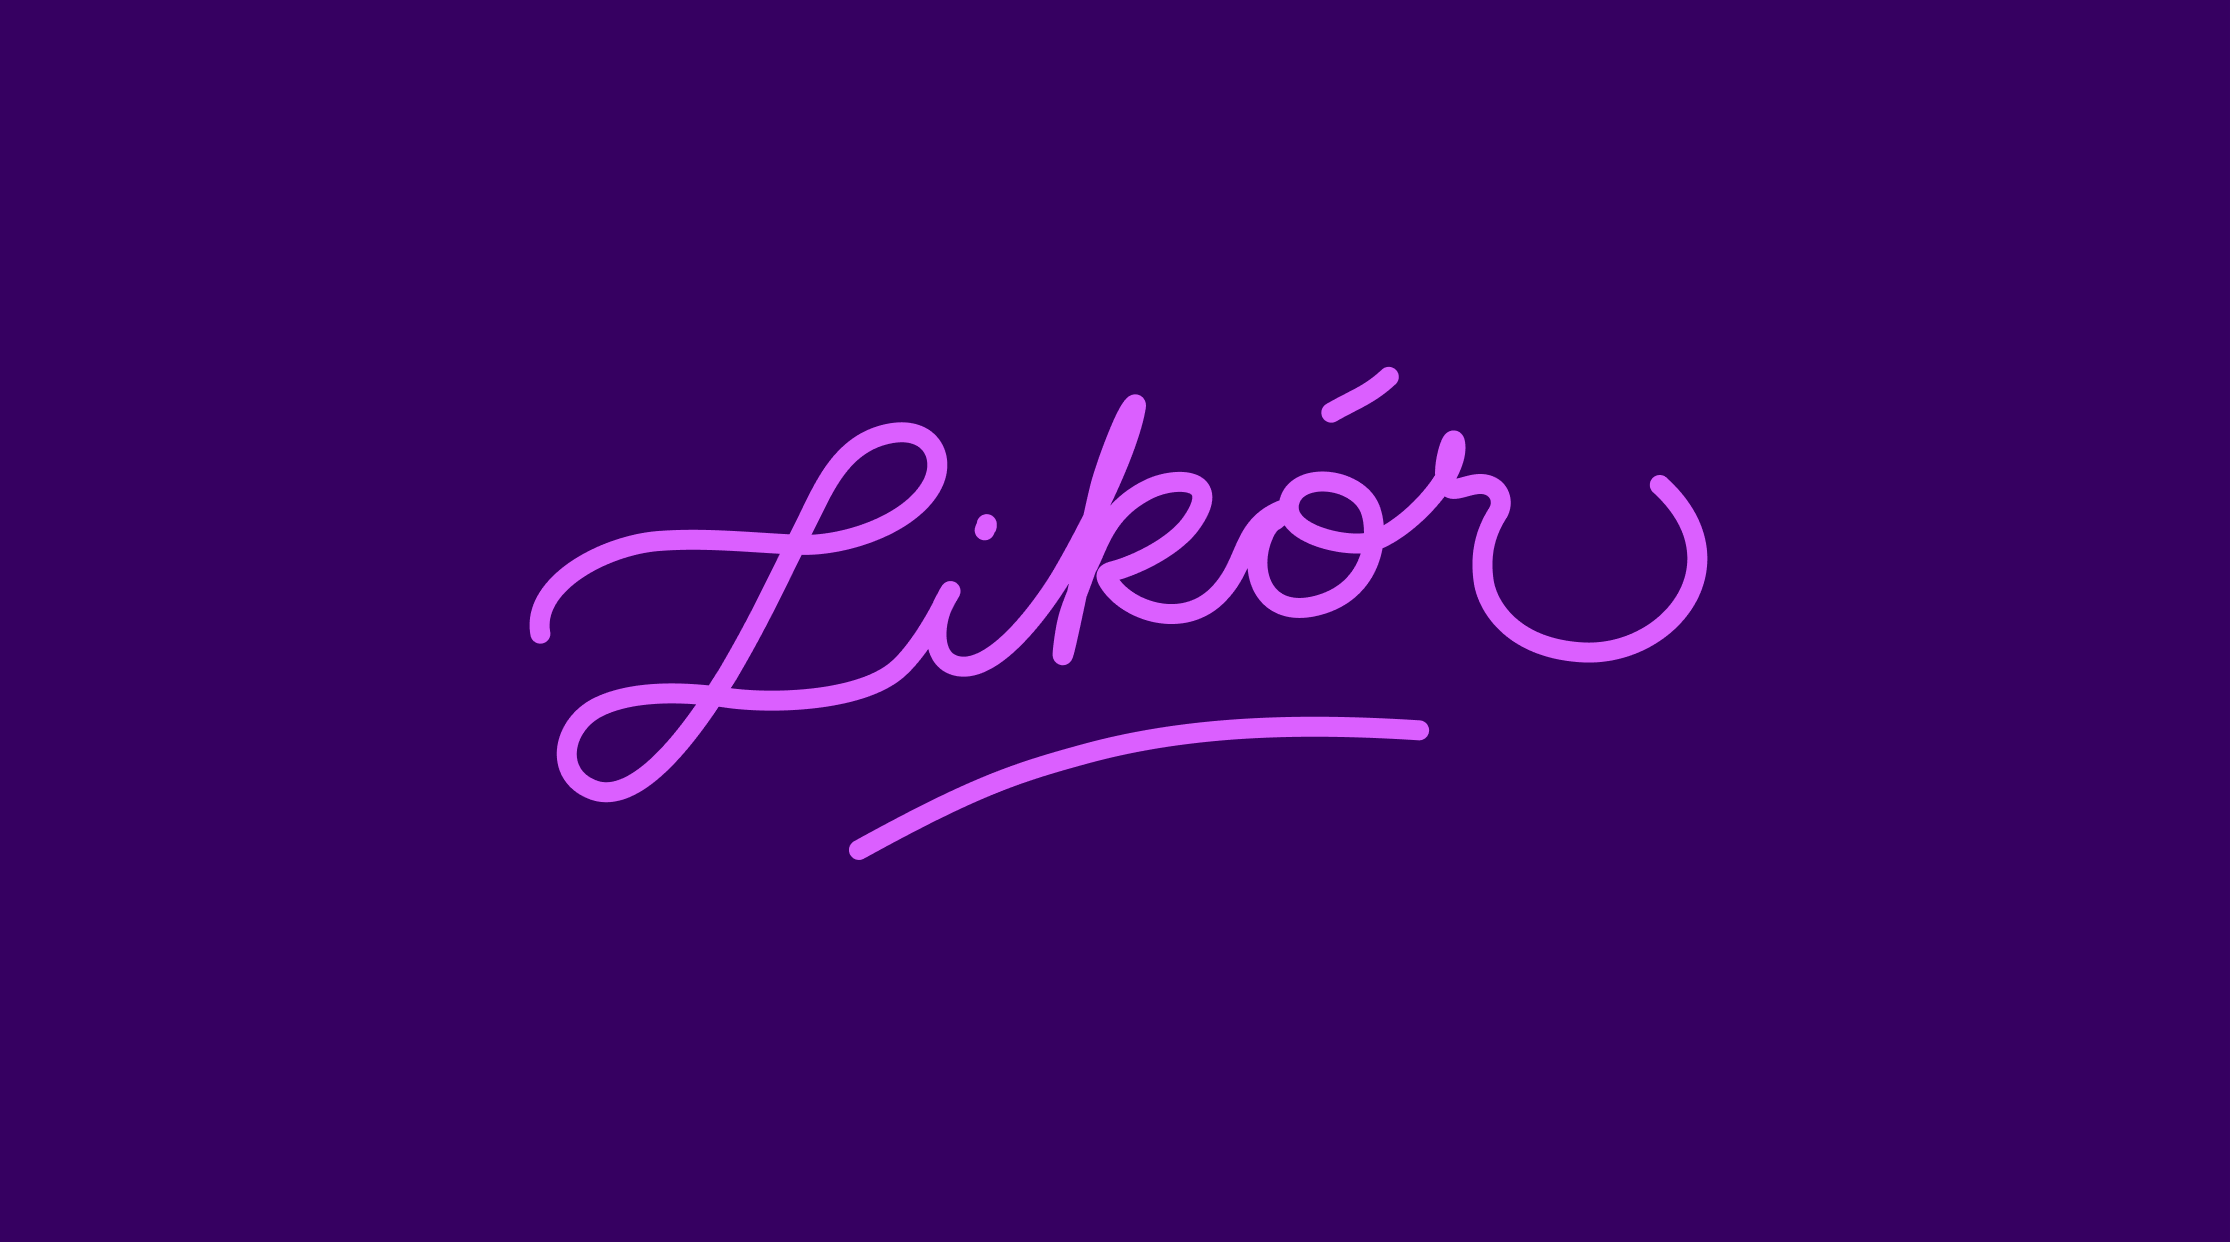
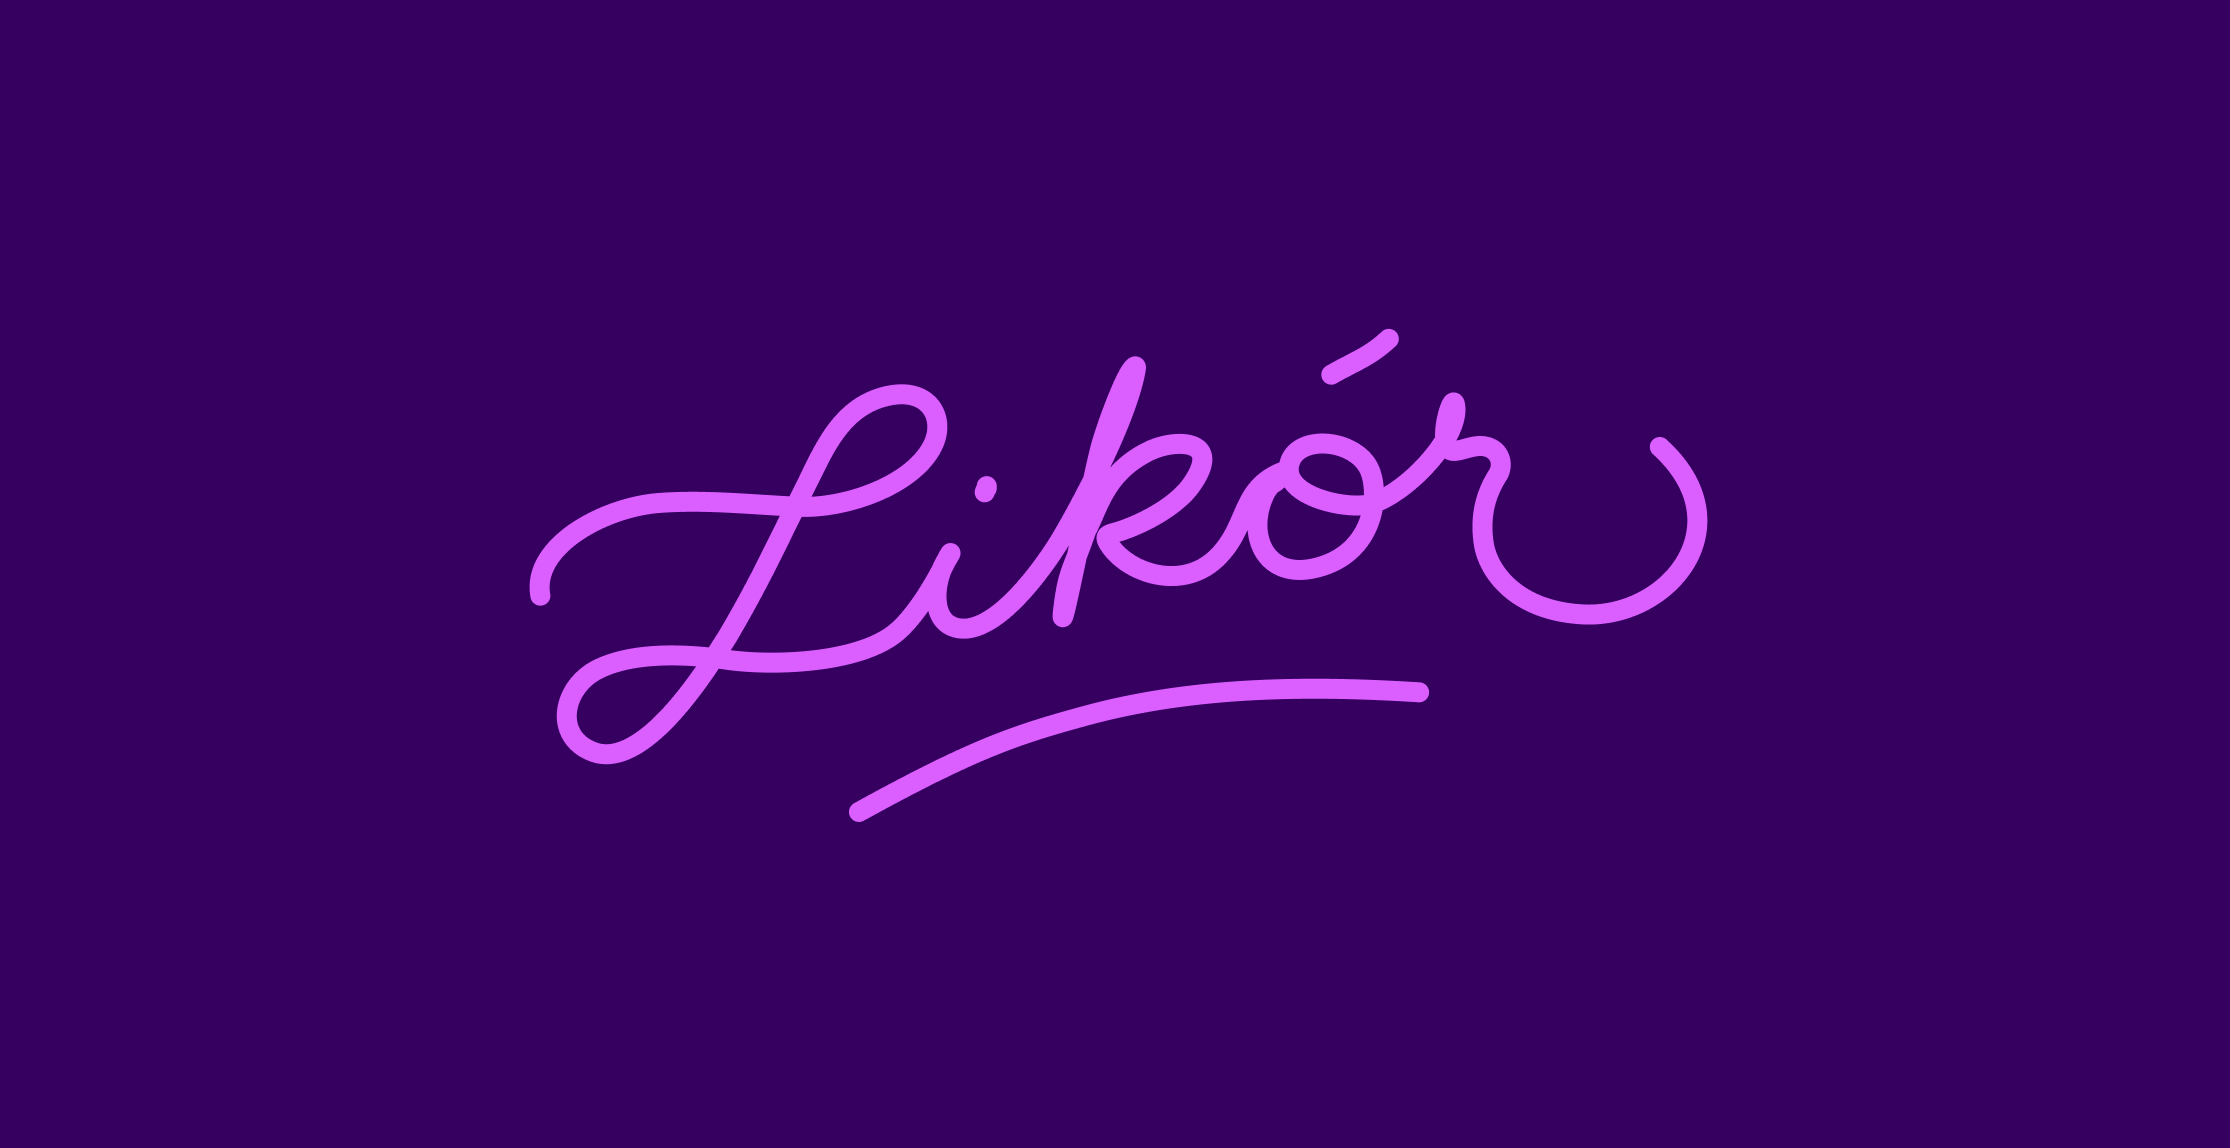
updated morell images

diff --git a/morell.html b/morell.html
@@ -78,7 +78,7 @@
             <img src="../images/morell_9_mobile.png" alt="" />
           </li>
           <li>
-            <img src="../images/morell_sketches.png" alt="" />
+            <img src="../images/morell_sketches_mobile.png" alt="" />
           </li>
         </ul>
         <div class="grid grid-cols-2 gap-4 px-4 pb-16">
